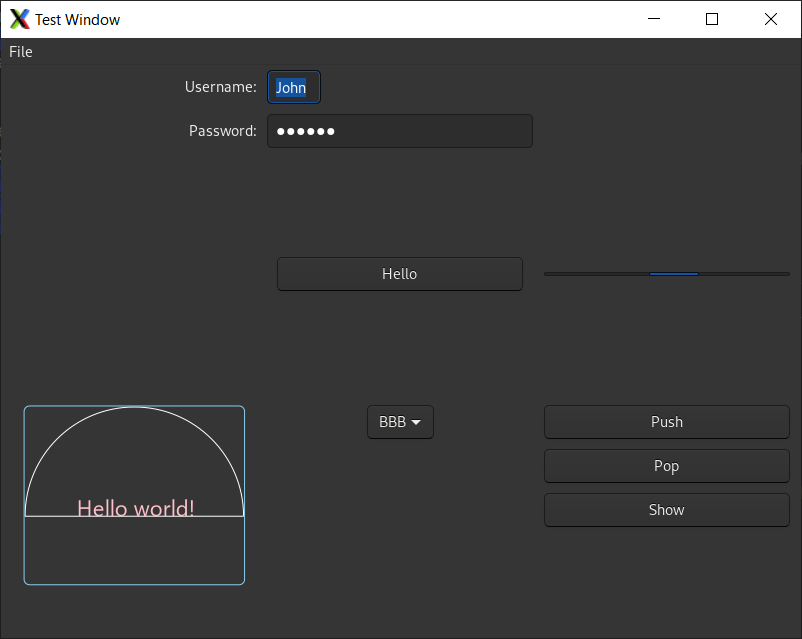
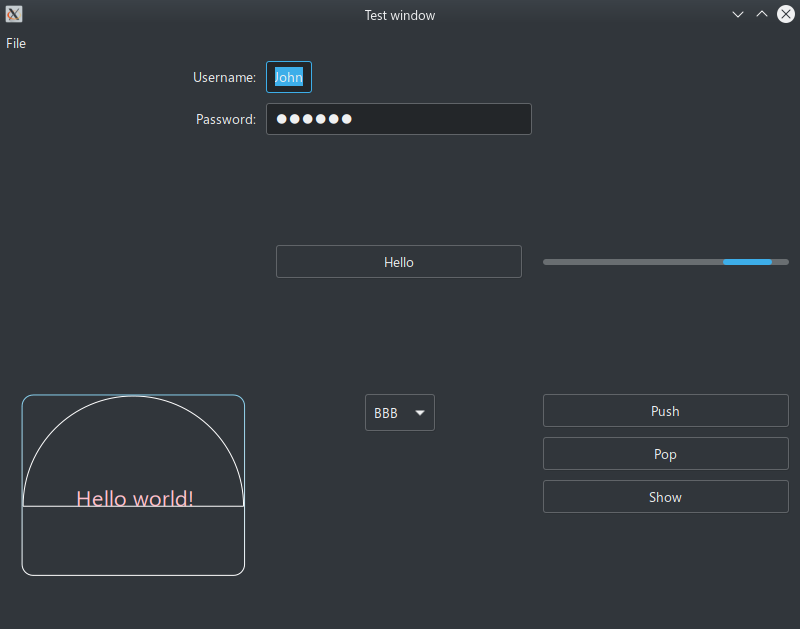
Update README.

diff --git a/README.md b/README.md
@@ -5,19 +5,27 @@ This project is NOT complete, and still needs a lot of work. Welcome issues and 
 
 [![Azure DevOps builds](https://strawberry-vs.visualstudio.com/XamlCpp/_apis/build/status/Berrysoft.XamlCpp?branch=master)](https://strawberry-vs.visualstudio.com/XamlCpp/_build?definitionId=12)
 ## Goal
-The goal of XamlCpp is to write a cross-platfrom GUI application easily and quickly. It uses a dialect of XAML to discribe the UI, but may not support all features like other XAML frameworks do. The final application should be tiny, with a few dependencies, compared to Qt or so.
+The goal of XamlCpp is to write a cross-platfrom and cross-language\* GUI application easily and quickly. It uses a dialect of XAML to discribe the UI, but may not support all features like other XAML frameworks do. The final application should be tiny, with a few dependencies.
+
+\* At first, I only want to target C++, and that's why it is called Xaml**Cpp**. Now it also targets C, with Rust and C#, in principle.
 
 ## Charset
 XamlCpp uses UTF-8 everywhere, which is ensured by a modified version of `boost-nowide` on Windows.
 
-## Reflection
-XamlCpp supports reflection. All registered class could be constructed dynamically, and methods, properties and events registered could be accessed dynamically.
+## Object Model and Reflection
+The object model of XamlCpp is inspired by COM. But there are some difference:
+* COM uses `stdcall` for standard calling convention, while XamlCpp uses `cdecl` on Windows.
+* In most cases, COM needs a server to manage the classes and memory, but XamlCpp needs not.
+* COM distinguishes classes and interfaces. XamlCpp only provides interfaces, and the implementations could only be constructed by specified functions.
+* COM uses `PascalName`, while XamlCpp uses `snake_name`.
+
+But there are many more similarities. For example, the definition of `xaml_result` is the same as `HRESULT`, and even the value means the same; both of them don't use exceptions; the object model looks like the same, and some GUIDs of primitive types is the same as .NET(which WAS COM+ at first).
+
+Writing a class for XamlCpp is more complicated than a normal C++ class, but simpler than COM. You don't need `idl` files and non-standard keywords, but predefined helper macros. Such a definition of the interface could be easily projected to C, Rust and C#, which means different languages could cooperate (maybe not that?) easily.
+
+XamlCpp supports reflection by this object model. All registered class could be constructed dynamically, and methods, properties and events registered could be accessed dynamically. Note that reflection is not free nor type-secure. Programmers are responsible for the cost and type checking, and any type mismatch is undefined behavior.
 
 A simple example is [here](./meta/test/src/main.cpp).
-
-It doesn't use the RTTI feature of C++, instead, it ownes an stable implementation, because the constraints of the standard are too loose to implement reflection.
-
-The object model of XamlCpp is inspired by COM. The only difference is that COM uses `stdcall` for calling convention, but XamlCpp uses `cdecl`.
 
 ## GUI
 XamlCpp is a cross-platform GUI framework. With some simple, platform-specific work, you can make your application run on all platforms supported.
@@ -28,12 +36,16 @@ GUI is divided into several parts.
 The basic UI project is responsible for the main loop, windows and system dialogs. It is necessary to run a GUI application.
 
 ### Screenshots
-|Platform|Win32|GTK+3|Cocoa|
-|-|-|-|-|
-|Light|![Win32 Light](./assets/win.light.png)|![Gtk Light](./assets/gtk.light.png)|![Cocoa Light](./assets/cocoa.light.png)|
-|Dark|![Win32 Dark](./assets/win.dark.png)|![Gtk Dark](./assets/gtk.dark.png)|![Cocoa Dark](./assets/cocoa.dark.png)|
+|Platform|Light|Dark|
+|-|-|-|
+|Win32|![Win32 Light](./assets/win.light.png)|![Win32 Dark](./assets/win.dark.png)|
+|GTK+3|![Gtk Light](./assets/gtk.light.png)|![Gtk Dark](./assets/gtk.dark.png)|
+|QT5|![Qt Light](./assets/qt.light.png)|![Qt Dark](./assets/qt.dark.png)|
+|Cocoa|![Cocoa Light](./assets/cocoa.light.png)|![Cocoa Dark](./assets/cocoa.dark.png)|
 
 \* Due to API limitation, dark mode for Win32 is not completed.
+
+\*\* Screenshots of Gtk and Qt is captured on KDE with theme Breeze.
 
 ### UI
 It supports desktop environment with concepts of "window" and "screen", and many dialogs like "message box" and "file box".
@@ -43,7 +55,7 @@ It also supports high DPI settings even on Windows.
 |-|-|-|-|
 |Win32|Windows API|Windows\*|Windows|
 |GTK+3|GLib, Gdk, Gtk|Windows, Linux, MacOS|Windows/MinGW64, Linux|
-|QT5|Qt5::Widgets|Windows, Linux, MacOS|Windows, Linux, MacOS|
+|QT5|Qt5Widgets|Windows, Linux, MacOS|Windows, Linux, MacOS|
 |Cocoa|Cocoa|MacOS|MacOS|
 
 \* At least Windows 7.
@@ -68,12 +80,14 @@ A webview control.
 |-|-|
 |Win32|Edge(Chromium) -> Edge -> IE \*|
 |GTK+3|Webkit \*\*|
-|QT5|Qt5::WebEngine|
+|QT5|Qt5WebEngine or Qt5WebKit \*\*\*|
 |Cocoa|WebKit|
 
 \* Indicates the search order. IE is supported to ensure it could be used.
 
 \*\* Linux only because of the limitation of webkit2gtk.
+
+\*\*\* Could be specified in configuration.
 
 ## XAML
 XamlCpp uses a dialect of XAML, which may support XAML Standard in the future. XAML files are either interpreted at run-time, or compiled to C++ code at compile-time.
@@ -115,6 +129,6 @@ This project assumes it is built by MSVC 19.27+, GCC 10.0+ or Clang 10.0+.
 #### MinGW64 & Linux & MacOS
 `gtk` and `pkgconfig` are required. `webkit2gtk` is also required on Linux for `webview`.
 ### Build for QT5
-`qt5-base` is required. `qt5-webengine` is also required for `webview`.
+`qt5-base` is required. `qt5-webengine` or `qt5-webkit` is also required for `webview`.
 ### Build for Cocoa
 No other package is needed.
